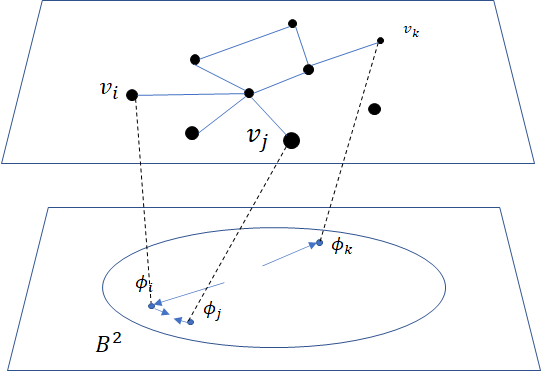
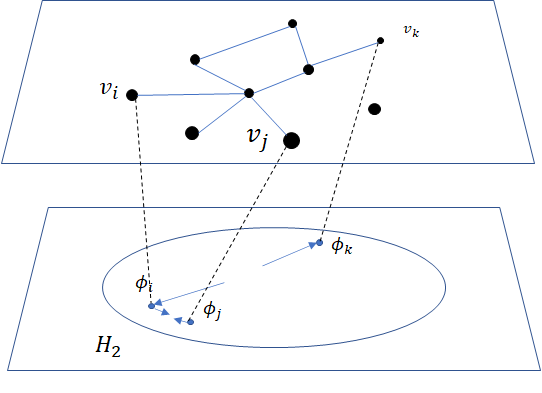
Part 2 begin

diff --git a/publisher/build_paper.py b/publisher/build_paper.py
@@ -49,7 +49,7 @@ def rst2tex(in_path, out_path):
 
     base_dir = os.path.dirname(__file__)
     out_file = shutil.copy(status_file, out_path)
-    os.rename(out_file, os.path.join(out_path, 'status.sty'))
+    os.replace(out_file, os.path.join(out_path, 'status.sty'))
     scipy_style = os.path.join(base_dir, '_static/scipy.sty')
     shutil.copy(scipy_style, out_path)
     preamble = u'''\\usepackage{scipy}'''

diff --git a/papers/geomstats/geomstats.rst b/papers/geomstats/geomstats.rst
@@ -457,8 +457,8 @@ of the geodesic that links them.
 Learning graph representations with hyperbolic spaces in `Geomstats`
 ********************************************************************
 
-Setup
-~~~~~
+`Setup`
+~~~~~~~
 
 We start by importing standard tools for logging and visualization,
 allowing us to draw the embedding of the GSD on the manifold. Next, we
@@ -480,8 +480,8 @@ from ``geomstats``.
         import PoincareBall
 
 
-Parameters and Initialization
-~~~~~~~~~~~~~~~~~~~~~~~~~~~~~
+`Parameters and Initialization`
+~~~~~~~~~~~~~~~~~~~~~~~~~~~~~~~
 Table :ref:`tabparam` defines the parameters needed for embedding.
 Let us discuss a few things about the parameters of the above table. The
 number of dimensions should be high (i.e., 10+) for large datasets
@@ -581,15 +581,11 @@ in ``geomstats`` is straightforward:
     hyperbolic_manifold = PoincareBall(2)
 
 
-**End of part 1**
-
-
-
-Learning embedding by optimizing a loss function
-~~~~~~~~~~~~~~~~~~~~~~~~~~~~~~~~~~~~~~~~~~~~~~~~
+`Learning embedding by optimizing a loss function`
+~~~~~~~~~~~~~~~~~~~~~~~~~~~~~~~~~~~~~~~~~~~~~~~~~~
 
 Denote :math:`V` as the set of nodes and :math:`E \subset V\times V` the
-set of edges. The goal of embedding GSD is to provide a faithful and
+set of edges of the graph. The goal of embedding GSD is to provide a faithful and
 exploitable representation of the graph structure. It is mainly achieved
 by preserving *first-order* proximity that enforces nodes sharing edges
 to be close to each other. It can additionally preserve *second-order*
@@ -597,32 +593,33 @@ proximity that enforces two nodes sharing the same context (i.e., nodes
 that are neighbours but not necessarily directly connected) to be close.
 To preserve first and second-order proximities we adopt a loss function
 similar to :cite:`NIPS2017_7213` and consider the negative sampling
-approach as in :cite:`NIPS2013_5021` :
+approach as in :cite:`NIPS2013_5021`:
 
 .. math::      \mathcal{L} = - \sum_{v_i\in V} \sum_{v_j \in C_i} \bigg[ log(\sigma(-d^2(\phi_i, \phi_j'))) + \sum_{v_k\sim \mathcal{P}_n} log(\sigma(d^2(\phi_i, \phi_k')))  \bigg]
 
-where :math:`\sigma(x)=\frac{1}{1+e^{-x}}` is the sigmoid function and
-:math:`\phi_i \in \mathbb{B}^m` is the embedding of the :math:`i`-th
+where :math:`\sigma(x)=(1+e^{-x})^{-1}` is the sigmoid function and
+:math:`\phi_i \in H_2` is the embedding of the :math:`i`-th
 node of :math:`V`, :math:`C_i` the nodes in the context of the
-:math:`i`-th node, :math:`\phi_j'\in \mathbb{B}^m` the embedding of
-:math:`v_j\in C_i` and :math:`\mathcal{P}_n` the negative sampling
-distribution over :math:`V`:
-:math:`\mathcal{P}_n(v)=\frac{deg(v)^{3/4}}{\sum_{v_i\in V}deg(v_i)^{3/4}}`.
-Intuitively one can see that to minimizing :math:`L`, the distance
-between :math:`v_i` and :math:`v_j` should get smaller, while the one
-between :math:`v_i` and :math:`v_k` would get larger.
+:math:`i`-th node, :math:`\phi_j'\in H_2` the embedding of
+:math:`v_j\in C_i`. Negatively sampled nodes :math:`v_k` are chosen according to
+the distribution :math:`\mathcal{P}_n` such that
+:math:`\mathcal{P}_n(v)=(deg(v)^{3/4}).(\sum_{v_i\in V}deg(v_i)^{3/4})^{-1}`.
+
+Intuitively one can see on Figure :ref:`fignotation` that to minimizing :math:`L`, the distance
+between :math:`\phi_i` and :math:`\phi_j` should get smaller, while the one
+between :math:`\phi_i` and :math:`\phi_k` would get larger.
 
 .. figure:: learning_graph_structured_data_h2_files/Notations.png
     :scale: 40%
     :align: center
 
-    Distances between embedded nodes after applying one optimization iteration.
+    Distances between node embeddings after applying one optimization iteration :label:`fignotation`.
 
-Riemannian optimization
-~~~~~~~~~~~~~~~~~~~~~~~
+`Riemannian optimization`
+~~~~~~~~~~~~~~~~~~~~~~~~~
 
-Following the idea of we use the following formula to optimize
-:math:`L`:
+Following the idea of :cite:`ganea2018hyperbolic` we use the following formula
+to optimize :math:`L`:
 
 .. math::  \phi^{t+1} = \text{Exp}_{\phi^t} \left( -lr \frac{\partial L}{\partial \phi} \right)
 
@@ -641,37 +638,21 @@ unit. The Riemannian exponential map is implemented as a method of the
 ``geomstats``.
 
 Therefore to minimize :math:`L` we will need to compute its gradient.
-Several steps are required to do so, 1. Compute the gradient of the
-squared distance 2. Compute the gradient of the log sigmoid 3. Compute
-the gradient of the composision of 1. and 2.
+To do so, we will need the gradient of:
 
-For 1., we use the formula proposed by which uses the Riemannian
+1. the squared distance :math:`d^2(x,y)`
+2. the log sigmoid :math:`log(\sigma(x))`
+3. the composision of 1. and 2.
+
+For 1., we use the formula proposed by :cite:`Arnaudon2013` which uses the Riemannian
 logarithmic map to compute the gradient of the distance. This is
 implemented as
 
 .. code:: ipython3
 
     def grad_squared_distance(point_a, point_b):
-        """Gradient of squared hyperbolic distance.
-
-        Gradient of the squared distance based on the
-        Ball representation according to point_a
-
-        Parameters
-        ----------
-        point_a : array-like, shape=[n_samples, dim]
-            First point in hyperbolic space.
-        point_b : array-like, shape=[n_samples, dim]
-            Second point in hyperbolic space.
-
-        Returns
-        -------
-        dist : array-like, shape=[n_samples, 1]
-            Geodesic squared distance between the two points.
-        """
         hyperbolic_metric = PoincareBall(2).metric
         log_map = hyperbolic_metric.log(point_b, point_a)
-
         return -2 * log_map
 
 For 2. define the ``log_sigmoid`` corresponding as follows:
@@ -679,18 +660,6 @@ For 2. define the ``log_sigmoid`` corresponding as follows:
 .. code:: ipython3
 
     def log_sigmoid(vector):
-        """Logsigmoid function.
-
-        Apply log sigmoid function
-
-        Parameters
-        ----------
-        vector : array-like, shape=[n_samples, dim]
-
-        Returns
-        -------
-        result : array-like, shape=[n_samples, dim]
-        """
         return gs.log((1 / (1 + gs.exp(-vector))))
 
 The gradient of the logarithm of sigmoid function is implemented as:
@@ -698,42 +667,31 @@ The gradient of the logarithm of sigmoid function is implemented as:
 .. code:: ipython3
 
     def grad_log_sigmoid(vector):
-        """Gradient of log sigmoid function.
-
-        Parameters
-        ----------
-        vector : array-like, shape=[n_samples, dim]
-
-        Returns
-        -------
-        gradient : array-like, shape=[n_samples, dim]
-        """
         return 1 / (1 + gs.exp(vector))
 
 For 3., apply the composition rule to obtain the gradient of :math:`L`.
 The following function given :math:`\phi_i`, :math:`\phi'_j` and
 :math:`\phi'_k` returns the total value of :math:`L` and its gradient
-vector at :math:`\phi_i`. For the value of :math:`L` the loss function
-formula is simply applied. For the gradient, we apply the composition of
+vector at :math:`\phi_i`. To obtain the value of :math:`L` the loss function
+formula is simply applied. For the gradient of :math:`L`, we apply the composition of
 ``grad_log_sigmoid`` with ``grad_squared_distance`` while paying
-attention to the signs.
+attention to the signs as
 
 .. code:: ipython3
 
-    def loss(example_embedding, context_embedding, negative_embedding,
-             manifold):
-        """Compute loss and grad.
+    def loss(
+        example_embedding, context_embedding,
+        negative_embedding, manifold):
 
-        Compute loss and grad given embedding of the current example,
-        embedding of the context and negative sampling embedding.
-        """
         n_edges, dim =\
-            negative_embedding.shape[0], example_embedding.shape[-1]
+            negative_embedding.shape[0],
+            example_embedding.shape[-1]
         example_embedding = gs.expand_dims(example_embedding, 0)
         context_embedding = gs.expand_dims(context_embedding, 0)
         positive_distance =\
             manifold.metric.squared_dist(
-                example_embedding, context_embedding)
+                example_embedding,
+                context_embedding)
         positive_loss =\
             log_sigmoid(-positive_distance)
 
@@ -741,7 +699,8 @@ attention to the signs.
             gs.repeat(example_embedding, n_edges, axis=0)
         negative_distance =\
             manifold.metric.squared_dist(
-                reshaped_example_embedding, negative_embedding)
+                reshaped_example_embedding,
+                negative_embedding)
         negative_loss = log_sigmoid(negative_distance)
 
         total_loss = -(positive_loss + negative_loss.sum())
@@ -750,7 +709,8 @@ attention to the signs.
             -grad_log_sigmoid(-positive_distance)
 
         positive_distance_grad =\
-            grad_squared_distance(example_embedding, context_embedding)
+            grad_squared_distance(example_embedding,
+            context_embedding)
 
         positive_grad =\
             gs.repeat(positive_log_sigmoid_grad, dim, axis=-1)\
@@ -770,8 +730,8 @@ attention to the signs.
 
         return total_loss, example_grad
 
-Capturing the graph structure
-~~~~~~~~~~~~~~~~~~~~~~~~~~~~~
+`Capturing the graph structure`
+~~~~~~~~~~~~~~~~~~~~~~~~~~~~~~~
 
 At this point we have the necessary bricks to compute the resulting
 gradient of :math:`L`. We are ready to prepare the nodes :math:`v_i`,
